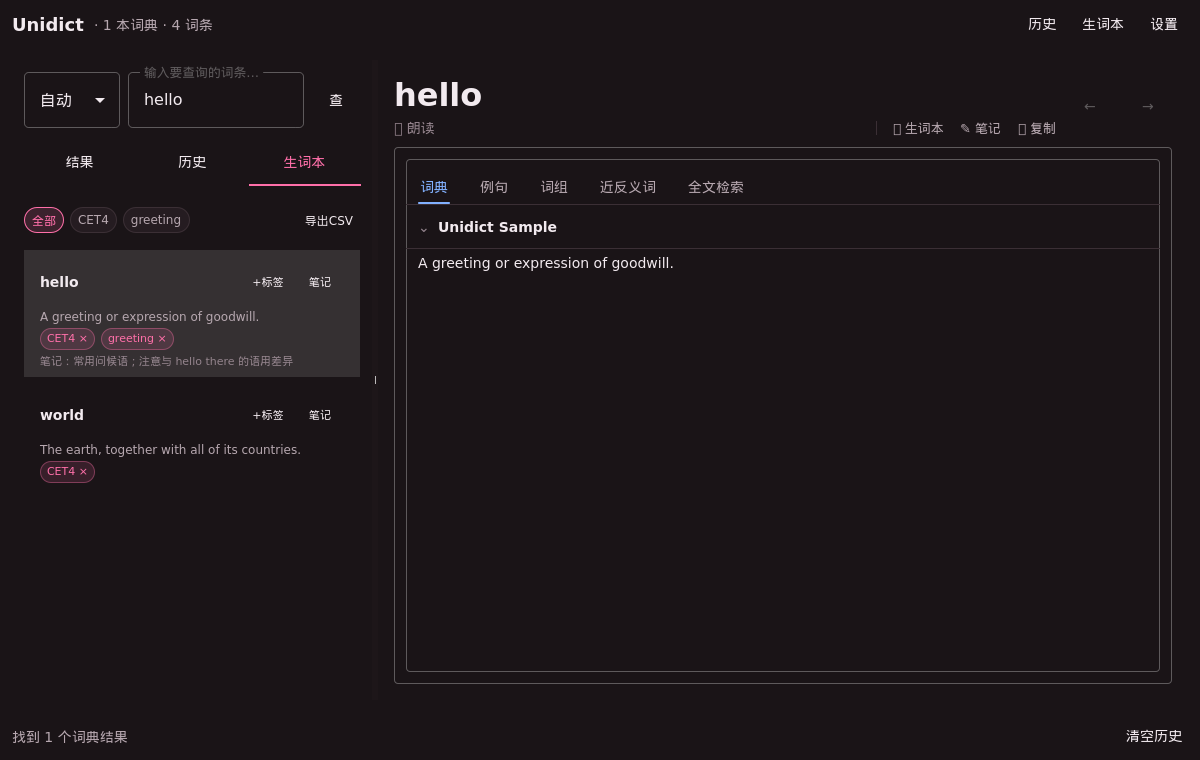
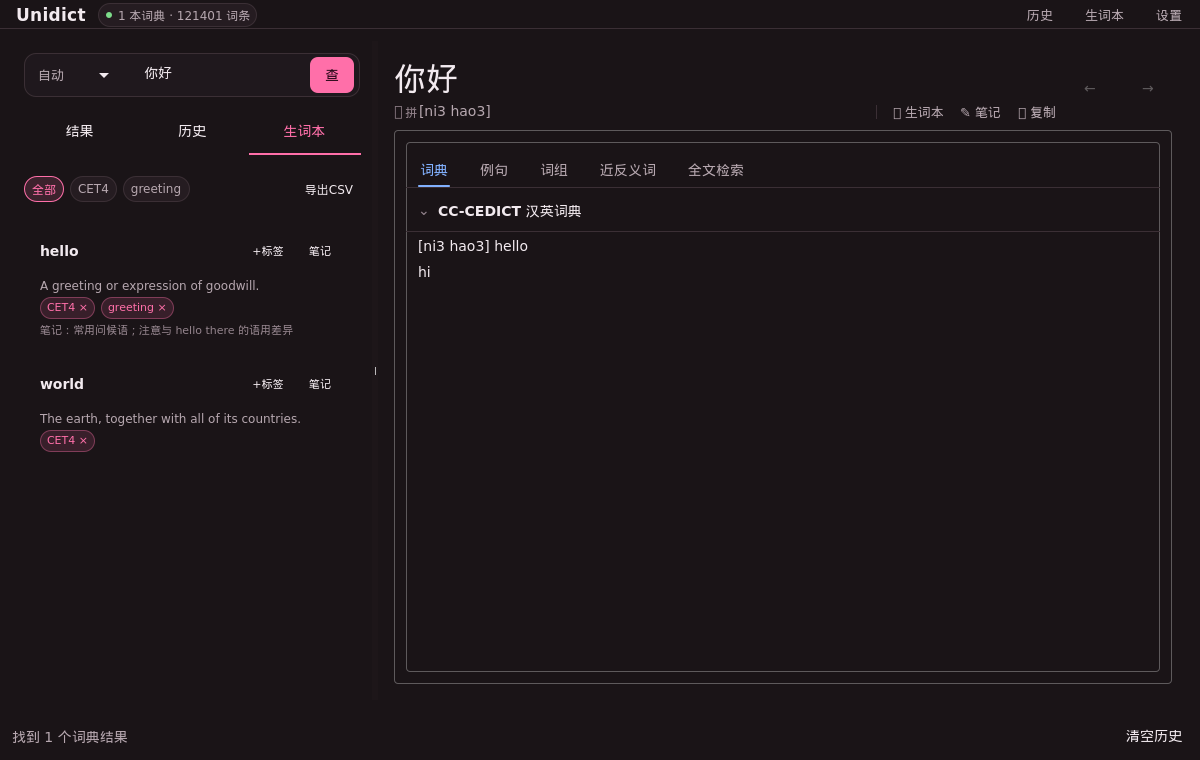
feat: UI 重设计 D2——surfaceSunken 凹陷面 token + 查询命令条 + header chip 化，原型基线切真词典
- token：theme_tokens.h 加 surfaceSunken（light #f7f1f5 / dark #1f181d，
  凹陷面比 card 低一档），theme.h Q_PROPERTY 透出；contrast_test hexFields
  收编 + AA 新增 text/secondary/accent × sunken × 双主题 6 行（34 用例全过）。
  tertiary/sunken 实测 4.3:1 掉门槛——头注释记档「凹陷面文字只用
  text/secondary，placeholder 归 secondary」
- SidebarPanel 查询命令条：搜索区重写为 surfaceSunken 凹陷容器
  （radiusL，聚焦时 accent 描边 2px + 120ms ColorAnimation），模式
  ComboBox/输入位/查按钮归拢一条；Material 浮动 placeholder 与输入文本
  重叠改为 placeholderText 置空 + 自绘空态 Text（通配符/正则占位随模式换）
- MainDesktop header：Material.elevation 0 + hairline 底边，「N 本词典 ·
  M 词条」状态 chip（success 圆点），历史/生词本/设置收进 HeaderGhostButton
  组件（hoverOverlay 悬停态），既有 objectName 逐个保留（点审计不破）
- 原型基线切真词典：ui_sandbox ENV 换 dictionaries/ccedict-zh-en.json、
  fixture 词 hello→你好——四屏截图即开箱效果（121401 词条），弃
  examples/dict.json 4 词条玩具感；docs/ui 八屏按实现即原型口径换新
- todo.md：立 P-11 产品体验三线（查词升级/UI 重设计/字典随包）批次台账，
  P-7 批四暂缓记档

diff --git a/qmlui/components/SidebarPanel.qml b/qmlui/components/SidebarPanel.qml
@@ -46,47 +46,113 @@ Pane {
         anchors.fill: parent
         spacing: 10
 
-        RowLayout {
+        // 查询命令条：凹陷面容器（surfaceSunken + 聚焦 accent 环）内嵌
+        // 模式切换 / 输入位 / 查询按钮——主入口一件事，视觉上归拢为一个整体
+        Rectangle {
+            id: searchCommandBar
+            objectName: "searchCommandBar"
             Layout.fillWidth: true
-            spacing: 8
+            Layout.preferredHeight: 44
+            radius: Theme.radiusL
+            color: Theme.surfaceSunken
+            border.width: searchField.activeFocus ? 2 : 1
+            border.color: searchField.activeFocus ? Theme.accent : Theme.divider
+            Behavior on border.color { ColorAnimation { duration: 120 } }
 
-            ComboBox {
-                id: suggestModeCombo
-                objectName: "suggestModeCombo"
-                model: ["自动", "前缀", "模糊", "通配符", "正则"]
-                currentIndex: root.suggestMode
-                Layout.preferredWidth: 96
-                onActivated: root.suggestModeSelected(currentIndex)
-            }
+            RowLayout {
+                anchors.fill: parent
+                anchors.leftMargin: 8
+                anchors.rightMargin: 6
+                anchors.topMargin: 4
+                anchors.bottomMargin: 4
+                spacing: 4
 
-            TextField {
-                id: searchField
-                objectName: "searchField"
-                Layout.fillWidth: true
-                text: root.queryText
-                placeholderText: root.suggestMode === 3 ? "输入通配符，例如 te*t?…" :
-                    (root.suggestMode === 4 ? "输入正则，例如 ^test.* …" : "输入要查询的词条…")
-                selectByMouse: true
-
-                onTextChanged: root.queryTextEdited(text)
-
-                Keys.onPressed: function(event) {
-                    if (event.key === Qt.Key_Return || event.key === Qt.Key_Enter) {
-                        root.querySubmitted(searchField.text)
-                        event.accepted = true
-                    } else if (event.key === Qt.Key_Escape) {
-                        searchField.clear()
-                        root.queryCleared()
-                        event.accepted = true
+                ComboBox {
+                    id: suggestModeCombo
+                    objectName: "suggestModeCombo"
+                    model: ["自动", "前缀", "模糊", "通配符", "正则"]
+                    currentIndex: root.suggestMode
+                    Layout.preferredWidth: 92
+                    Layout.fillHeight: true
+                    onActivated: root.suggestModeSelected(currentIndex)
+                    background: Rectangle {
+                        radius: Theme.radiusM
+                        color: suggestModeCombo.hovered ? Theme.hoverOverlay : "transparent"
+                    }
+                    contentItem: Text {
+                        text: suggestModeCombo.displayText
+                        font.pixelSize: 13
+                        color: Theme.textSecondary
+                        verticalAlignment: Text.AlignVCenter
+                        leftPadding: 6
                     }
                 }
-            }
 
-            ToolButton {
-                objectName: "searchGoButton"
-                text: "查"
-                enabled: searchField.text.trim().length > 0
-                onClicked: root.querySubmitted(searchField.text)
+                TextField {
+                    id: searchField
+                    objectName: "searchField"
+                    Layout.fillWidth: true
+                    Layout.fillHeight: true
+                    text: root.queryText
+                    // 占位自绘（Material 样式的 placeholder 会浮动到顶部与
+                    // 输入文本重叠；placeholderText 置空 + 空态 Text 覆盖）
+                    placeholderText: ""
+                    color: Theme.text
+                    selectByMouse: true
+                    verticalAlignment: TextInput.AlignVCenter
+                    font.pixelSize: 14
+                    background: Rectangle { color: "transparent" }
+
+                    Text {
+                        anchors.left: parent.left
+                        anchors.leftMargin: 6
+                        anchors.verticalCenter: parent.verticalCenter
+                        text: root.suggestMode === 3 ? "输入通配符，例如 te*t?…" :
+                            (root.suggestMode === 4 ? "输入正则，例如 ^test.* …" : "输入要查询的词条…")
+                        color: Theme.textSecondary
+                        font.pixelSize: 14
+                        visible: searchField.text.length === 0
+                    }
+
+                    onTextChanged: root.queryTextEdited(text)
+
+                    Keys.onPressed: function(event) {
+                        if (event.key === Qt.Key_Return || event.key === Qt.Key_Enter) {
+                            root.querySubmitted(searchField.text)
+                            event.accepted = true
+                        } else if (event.key === Qt.Key_Escape) {
+                            searchField.clear()
+                            root.queryCleared()
+                            event.accepted = true
+                        }
+                    }
+                }
+
+                ToolButton {
+                    id: searchGoButton
+                    objectName: "searchGoButton"
+                    text: "查"
+                    enabled: searchField.text.trim().length > 0
+                    Layout.fillHeight: true
+                    Layout.preferredWidth: 44
+                    font.pixelSize: 14
+                    onClicked: root.querySubmitted(searchField.text)
+                    background: Rectangle {
+                        radius: Theme.radiusM
+                        color: !searchGoButton.enabled ? "transparent"
+                            : searchGoButton.pressed ? Theme.accentPressed
+                            : searchGoButton.hovered ? Theme.accentHover
+                            : Theme.accent
+                        Behavior on color { ColorAnimation { duration: 120 } }
+                    }
+                    contentItem: Text {
+                        text: searchGoButton.text
+                        font: searchGoButton.font
+                        color: searchGoButton.enabled ? Theme.accentText : Theme.textDisabled
+                        horizontalAlignment: Text.AlignHCenter
+                        verticalAlignment: Text.AlignVCenter
+                    }
+                }
             }
         }
 

diff --git a/qmlui/MainDesktop.qml b/qmlui/MainDesktop.qml
@@ -389,43 +389,86 @@ ApplicationWindow {
     }
 
     header: ToolBar {
-        Material.elevation: 1
+        Material.elevation: 0
+        background: Rectangle {
+            color: Theme.window
+            // hairline 分隔替代 Material 投影：扁平层次，靠表面色阶区分
+            Rectangle { anchors.bottom: parent.bottom; width: parent.width; height: 1; color: Theme.divider }
+        }
         RowLayout {
             anchors.fill: parent
-            anchors.leftMargin: 12
-            anchors.rightMargin: 12
-            spacing: 10
+            anchors.leftMargin: 16
+            anchors.rightMargin: 8
+            spacing: 12
 
             Label {
                 text: "Unidict"
-                font.pixelSize: 18
+                font.pixelSize: 17
                 font.weight: Font.DemiBold
+                font.letterSpacing: 0.3
                 color: Theme.text
             }
 
-            Label {
-                text: {
-                    var _stamp = lookup.dictionariesStamp
-                    return lookup.loadedDictionaries().length > 0
-                        ? ("· " + lookup.loadedDictionaries().length + " 本词典 · " + lookup.indexedWordCount() + " 词条")
-                        : "· 未加载词典"
+            // 词典状态 chip：胶囊底 + accent 点，加载态一眼可辨
+            Rectangle {
+                radius: height / 2
+                implicitHeight: 24
+                implicitWidth: statusLabel.implicitWidth + 26
+                color: Theme.card
+                border.width: 1
+                border.color: Theme.divider
+                Row {
+                    anchors.centerIn: parent
+                    spacing: 6
+                    Rectangle {
+                        width: 6; height: 6; radius: 3
+                        anchors.verticalCenter: parent.verticalCenter
+                        color: lookup.loadedDictionaries().length > 0 ? Theme.success : Theme.warning
+                    }
+                    Label {
+                        id: statusLabel
+                        anchors.verticalCenter: parent.verticalCenter
+                        text: {
+                            var _stamp = lookup.dictionariesStamp
+                            return lookup.loadedDictionaries().length > 0
+                                ? (lookup.loadedDictionaries().length + " 本词典 · " + lookup.indexedWordCount() + " 词条")
+                                : "未加载词典"
+                        }
+                        font.pixelSize: 12
+                        color: Theme.textSecondary
+                    }
                 }
-                color: Theme.textSecondary
             }
 
             Item { Layout.fillWidth: true }
 
-            ToolButton {
+            component HeaderGhostButton : ToolButton {
+                leftPadding: 10
+                rightPadding: 10
+                background: Rectangle {
+                    radius: Theme.radiusM
+                    color: parent.hovered ? Theme.hoverOverlay : "transparent"
+                    Behavior on color { ColorAnimation { duration: 120 } }
+                }
+                contentItem: Text {
+                    text: parent.text
+                    font.pixelSize: 13
+                    color: Theme.textSecondary
+                    horizontalAlignment: Text.AlignHCenter
+                    verticalAlignment: Text.AlignVCenter
+                }
+            }
+            HeaderGhostButton {
                 objectName: "headerHistoryButton"
                 text: "历史"
                 onClicked: leftPane.currentTabIndex = 1
             }
-            ToolButton {
+            HeaderGhostButton {
                 objectName: "headerVocabButton"
                 text: "生词本"
                 onClicked: leftPane.currentTabIndex = 2
             }
-            ToolButton {
+            HeaderGhostButton {
                 objectName: "headerSettingsButton"
                 text: "设置"
                 onClicked: toolsDrawer.open()

diff --git a/qmlui/theme_tokens.h b/qmlui/theme_tokens.h
@@ -8,7 +8,11 @@
 //         accent/window 6.18:1 · accentText/accent 6.58:1 · danger/card 5.66:1
 //   dark  text/window 15.39:1 · secondary/card 7.21:1 · tertiary/card 4.63:1
 //         accent/window 7.00:1 · accentText/accent 6.98:1 · danger/card 7.24:1
-// （textDisabled 按 WCAG 豁免，不参与 AA 判定。）
+// 凹陷面（surfaceSunken，搜索输入条等内嵌输入底）配对：
+//   light text/sunken 15.16:1 · secondary/sunken 5.41:1 · accent/sunken 5.91:1
+//   dark  text/sunken 14.74:1 · secondary/sunken 7.57:1 · accent/sunken 6.71:1
+// （tertiary 在 sunken 上为 4.3:1 掉出门槛——凹陷面文字只用 text/secondary
+// 两档，placeholder 归 secondary；textDisabled 按 WCAG 豁免不判定。）
 //
 // 取值唯一来源：QML（Theme 上下文对象）与任何 HTML 插值都从这里出，
 // 禁止在 QML/页面代码里散落硬编码颜色。
@@ -28,6 +32,7 @@ inline constexpr int kRadiusL = 12;
 struct ThemeTokens {
     QString window;        // 窗体底
     QString card;          // 卡片/表面
+    QString surfaceSunken; // 凹陷面（搜索输入条/内嵌输入底），比 card 低一档
     QString text;          // 主文字
     QString textSecondary; // 次要文字
     QString textTertiary;  // 三级文字（占位/说明）
@@ -52,6 +57,7 @@ inline ThemeTokens tokensFor(bool dark) {
     if (dark) {
         t.window        = "#1a1417";
         t.card          = "#251c21";
+        t.surfaceSunken = "#1f181d";
         t.text          = "#f2eaef";
         t.textSecondary = "#b6a7af";
         t.textTertiary  = "#93838c";
@@ -70,6 +76,7 @@ inline ThemeTokens tokensFor(bool dark) {
     } else {
         t.window        = "#faf7f9";
         t.card          = "#ffffff";
+        t.surfaceSunken = "#f7f1f5";
         t.text          = "#241a20";
         t.textSecondary = "#6d5f67";
         t.textTertiary  = "#7e6e76";

diff --git a/tests/theme_tokens_contrast_test.cpp b/tests/theme_tokens_contrast_test.cpp
@@ -55,10 +55,10 @@ void ThemeTokensContrastTest::hexFormat() {
     for (bool dark : {false, true}) {
         const ThemeTokens t = tokensFor(dark);
         const auto hexFields = {
-            t.window, t.card, t.text, t.textSecondary, t.textTertiary,
-            t.textDisabled, t.accent, t.accentHover, t.accentPressed,
-            t.accentText, t.divider, t.hoverOverlay, t.danger, t.success,
-            t.warning, t.info, t.link,
+            t.window, t.card, t.surfaceSunken, t.text, t.textSecondary,
+            t.textTertiary, t.textDisabled, t.accent, t.accentHover,
+            t.accentPressed, t.accentText, t.divider, t.hoverOverlay,
+            t.danger, t.success, t.warning, t.info, t.link,
         };
         for (const QString& v : hexFields) {
             QVERIFY2(hexRe.match(v).hasMatch(),
@@ -80,6 +80,15 @@ void ThemeTokensContrastTest::aaContrast_data() {
             << t.textSecondary << t.card;
         QTest::newRow(qPrintable(tag + "-tertiary-card"))
             << t.textTertiary << t.card;
+        // 凹陷面（surfaceSunken，P-7 UI 重设计批新增）：内嵌输入条底。
+        // tertiary 在 sunken 上掉出 4.5（4.3:1）——凹陷面文字只用 text/
+        // secondary 两档，placeholder 归 secondary
+        QTest::newRow(qPrintable(tag + "-text-sunken"))
+            << t.text << t.surfaceSunken;
+        QTest::newRow(qPrintable(tag + "-secondary-sunken"))
+            << t.textSecondary << t.surfaceSunken;
+        QTest::newRow(qPrintable(tag + "-accent-sunken"))
+            << t.accent << t.surfaceSunken;
         QTest::newRow(qPrintable(tag + "-accent-window")) << t.accent << t.window;
         QTest::newRow(qPrintable(tag + "-accent-card")) << t.accent << t.card;
         QTest::newRow(qPrintable(tag + "-accentText-accent"))

diff --git a/qmlui/theme.h b/qmlui/theme.h
@@ -24,6 +24,7 @@ class Theme : public QObject {
     Q_PROPERTY(bool dark READ dark WRITE setDark NOTIFY darkChanged)
     Q_PROPERTY(QString window READ window NOTIFY darkChanged)
     Q_PROPERTY(QString card READ card NOTIFY darkChanged)
+    Q_PROPERTY(QString surfaceSunken READ surfaceSunken NOTIFY darkChanged)
     Q_PROPERTY(QString text READ text NOTIFY darkChanged)
     Q_PROPERTY(QString textSecondary READ textSecondary NOTIFY darkChanged)
     Q_PROPERTY(QString textTertiary READ textTertiary NOTIFY darkChanged)
@@ -51,6 +52,7 @@ public:
 
     QString window() const { return m_tokens.window; }
     QString card() const { return m_tokens.card; }
+    QString surfaceSunken() const { return m_tokens.surfaceSunken; }
     QString text() const { return m_tokens.text; }
     QString textSecondary() const { return m_tokens.textSecondary; }
     QString textTertiary() const { return m_tokens.textTertiary; }

diff --git a/qmlui/dev/ui_sandbox.cpp b/qmlui/dev/ui_sandbox.cpp
@@ -173,8 +173,9 @@ int main(int argc, char* argv[]) {
             settle(win);
             ok &= grab(win, outDir, "home_" + tag + ".png", size);
 
-            // 结果页
-            QVariant r1("hello"), r2(true);
+            // 结果页（真词典 fixture 词：CC-CEDICT 汉英词头，释义带拼音/词性，
+            // 原型图即开箱效果）
+            QVariant r1("你好"), r2(true);
             QMetaObject::invokeMethod(win, "openWord", Q_ARG(QVariant, r1),
                                       Q_ARG(QVariant, r2));
             settle(win);

diff --git a/todo.md b/todo.md
@@ -52,9 +52,17 @@
   - [x] 批次一：游戏化死码清理——消费面扫描判定（qmlui/learning_manager）：Main.qml（Android/iOS 壳）学习统计 Tab 只消费 5 个读方法（getDailyStats/getProgressStats/getDueReviews/getWeakWords/getMotivationalMessage）+传递依赖（getWordStats/calculateReviewPriority/getReviewReason/loadStats/fromJson/m_dailyTarget）；其余全仓零消费连码退役：18 个 Q_INVOKABLE（recordLookup 唯一写入口也零消费——读面恒空是现状行为，删除不改变任何行为）、5 signals、checkReviews+每小时定时器、成就系统（checkAchievements+m_unlockedAchievements）、艾宾浩斯间隔表（calculateNextInterval/calculateDifficulty）、saveStats（调用者全在死链）、LearningStats::toJson、ReviewItem struct（零引用）；保留读面与持久化读链（旧 learning_stats.json 照常加载展示，不破存量数据）。判不准的留：MainModern.qml 死壳归 TD-118/119 出口选型、ui_sandbox/click_audit 的 context 注册（Main.qml 探活需要）、Main.qml 学习 Tab（UI 面不在本批边界）。tests/learning_manager_test.cpp 改写（1207→约 430 行，26 slot→13）：读面改 fixture 手摆 learning_stats.json 驱动（读语义不再依赖写链；键形态=历史写入器落盘的归一化小写，fromJson 原样加载、查询侧归一化照测），写链/成就/导入导出 slot 随死链退役。闸门：build 151 / build-std 131 / coverage lines 100%
   - [x] 批次二：双存储合一——history 单源落 DataStoreStd（unidict.json 实时落盘），legacy manager 内存双轨退役：①std 层升级结构化条目 SearchHistoryEntryStd{query,success,dictionary_name,pinned}（add_search_history_entry/get_search_history_entries/set_search_history_pinned/remove_search_history/set_search_history 整表重建；置顶块尾插入与上限 100 全按 manager 口径统一——存储序=新→旧，旧 DataStore 尾插序退役，两端历史列表同序）；落盘格式升级为对象数组（紧凑字段：缺省不写），读侧双形态兼容（旧字符串数组→success=true/无词典名/不置顶），畸形布尔值兜 obj_bool 缺省臂。②DataStoreQt 桥+DataStore 壳透传（addSearchHistoryEntry/getSearchHistoryEntries/setSearchHistoryPinned/removeSearchHistoryItem/restoreSearchHistory）。③manager 转轨：m_history 成员退役，recordSearch/getSearchHistory/removeSearchHistoryItem/setSearchHistoryPinned 只剩类型映射与 m_lastError 语义；clear() 清单源；saveFromJson 摘 history 段，loadFromJson 对旧 state 的 history 数组做一次性替换式迁移且 history 独立于 state 恢复（不再「恢复即重置」——gui 恢复 state 不再清掉 qmlui 历史）。④sync 面适配：apply 回写改 restoreSearchHistory（add 插头语义下逐条重建会反转序），快照数组序=存储序自洽，同步序断言零改动。gui 调用面零改动（转发语义等价）；qmlui 简单面零改动。闸门：build 151 / build-std 131 / coverage lines 100%（std history 面含结构化往返/置顶桶/上限裁剪/旧格式兼容/畸形布尔兜底全钉）
   - [x] 批次三：四技能数据模型——生词本条目级 LearningState 字段位（product-principles §11「预留防迁移，不是课程化」口径）：VocabItemStd 扩四字段 listen/speak/read/write（int 0-2：0=未练 1=不稳 2=稳；旧文件无字段=0 零迁移），写入口 set_vocabulary_skill（skill ∈ {listen,speak,read,write} 大小写不敏感；非法技能/等级返回假不动数据，不静默钳位），add_vocabulary_item 更新臂只换释义——技能状态保留（学习状态不因重加词条被清，测试钉）。落盘只写非零字段（0=缺省省略），读侧 obj_int 兜底归 0；DataStoreQt 桥 + DataStore 壳透传（setVocabularyItemSkill），getVocabularyMeta/ByTag 条目带四技能键。sync 面零改动（词表合并固定 word/definition/added_at，技能=本地学习状态与 tags/notes 同口径不入同步文件）；qmlui/gui UI 零改动（UI 接入归批四复习入口按需消费）。测试钉：std 面（四技能三态/大小写不敏感/非法参数矩阵/upsert 保留/非零写零省略往返/旧文件缺省升级）、branches 面（roundtrip 四技能非零往返+全零省略臂、listen:"x" 畸形值 obj_int 兜底）、Qt 门面（写入口转发+meta 四键）。闸门：build 151 / build-std 131 / coverage lines 100%（9548/9548，scripts/coverage.sh 官方口径）
+  - （批四·复习入口简单化暂缓：2026-10-08 用户指令三线（P-11）插入，收口后续批）
 - [ ] **P-8 Speech**（TTS 面完善）
 - [x] **P-9 AI Provider 抽象**（provider 可替换，core 不带 AI，失败无感）：`AiProvider` 接口（name/translate/grammarCheck，空串=失败让位）+ `CommandAiProvider`（外部命令桥，起不来/被杀/超时/无输出全返回空）+ `HeuristicAiProvider`（离线启发式兜底，永不空）收进 ai_service_qt 既有 TU——零 CMakeLists 变更（tests/CMakeLists 由 B4 WIP 占用期的绕行口径）；AiServiceQt 链化（setCommand/env 重建：有命令=command+heuristic，无=仅 heuristic）+ `providerNames()` 可观察面；core 零 AI 不变。失败无感：任一 provider 空产出静默让位下家、坏命令占位不报错、空白输出边缘收紧为失败让位（原行为空白产出直接返回空串）。行为契约全保：q7 既有三结局（stdout/stderr/信号杀）与启发式 mock 串断言原样过；新增四断言（env 形链/无配置链/清空命令摘除/坏命令占位）。闸门：build 154/155、build-std 129/130——唯一红 = B4 WIP 未提交 test_sync_device_std（他人在途，不入本提交面/不进 CI）
 - [ ] **P-10 Server**（仅当用户显式推进：account / catalog / distribution / sync；永不进查词核心路径）。范围修订：账号面已取消（server_plan §5.5 零账号），sync 面由 B 系列承载
+- [ ] **P-11 产品体验三线**（用户指令 2026-10-08：①查词别像 grep，参考成熟项目 ②UI 用 ui-ux-pro-max 重设计并以新原型图替换旧图 ③常见开源字典多下几个、随包自带 ≥6 个 + 装进安装包）：
+  - [x] 字典随包线（10806a3）：`scripts/fetch_sample_dicts.sh` 一键拉取 5 件（ECDICT 340 万词 / WikDict×2 / FreeDict×2；unzip 缺席回退 python zipfile、FreeDict .idx.gz 需 gunzip、.done 标记防重拉、`--print-env` 出 UNIDICT_DICTS 值）；README 快速上手改指真词典 `dictionaries/ccedict-zh-en.json`（实测「词典」出拼音+释义）并修 `-m prefix -p inter` 形态错（`-p` 仅 fulltext 消费）；CI daily-build 两平台现拉入包（Windows `stage/dictionaries/` 平铺进 Inno `recursesubdirs`、macOS bundle `Resources/dictionaries/`），qmlui/main.cpp bundledNames 子路径白名单小件自动挂载（<5MB 三件入包即查；ECDICT 200MB、eng-deu 大件入包不自动挂按需挂载——「查得快」承诺），安装器断言补 ATTRIBUTION.md/ecdict.ifo/wikdict.ifo + ECDICT lobster 冒烟；字典资产不入 git（.gitignore `dictionaries/downloaded/`，AGENTS.md 红线）
+  - [x] UI 重设计 D1（2496b7c）：MainModern 死树整删（19 文件 ~8.8K 行），TECH_DEBT / CURRENT_ARCHITECTURE / CURRENT_FEATURE_MATRIX / mobile_plan 四文档同步
+  - [x] UI 重设计 D2（本批）：`surfaceSunken` 凹陷面 token（light #f7f1f5 / dark #1f181d）三同源链落 theme_tokens.h + theme.h + tests/theme_tokens_contrast_test.cpp（34 用例 AA 全过；tertiary/sunken 4.3:1 掉门槛→「凹陷面文字只用 text/secondary、placeholder 归 secondary」口径记档头注释）；SidebarPanel 查询命令条（sunken 容器 + 聚焦 accent 环 2px/120ms ColorAnimation + 模式/输入位/查按钮归拢一体，placeholderText 置空 + 自绘空态 Text 修 Material 浮标与输入文本重叠）；MainDesktop header chip 化（Material.elevation 0 + hairline 底边、「N 本词典 · M 词条」状态 chip 圆点、HeaderGhostButton 组件 ×3 objectName 全保）；ui_sandbox 原型基线切真词典（UNIDICT_DICTS=ccedict + fixture 词「你好」——121401 词条开箱效果，弃 4 词条玩具感）；docs/ui 八屏换新（实现即原型，README 引用名不变）
+  - [x] CI 闪败修（本批）：tests/learning_manager_test.cpp 日统计 nextReview 由 `now-7200` 改钉「今日零点」——统计窗是 [today, tomorrow)，固定回退量在 UTC 00:23 定时 CI 跑时跨日掉出窗外 reviews 记 0（10806a3/2496b7c 两红唯一根因，三平台同挂同修；零点恒在窗内且 ≤ now 必到期）
+  - [ ] 查词能力线：主链三层降级补模糊层 / 词形还原（lemma 设施）/ Did-you-mean 升编辑距离 / CLI 输出形态升级（grep 形四模式裸词表 → 结构化）
+  - [ ] UI D3/D4：EntryResultsPane 结果面板视觉升级（卡头/分组/行动作行）；compare/ 演进记录定口径 + Android UnidictTheme.kt 同步 surfaceSunken（三方同源链联动）
 - [ ] **B 系列同步服务重构**（server_plan §7，2026-10-04 立项，B1→B7 顺序；红线全程有效：同步默认关闭、显式开启明示范围；中转只见密文）：
   - [x] **B1 中转面核心**：`server/sync_relay/`——PROTOCOL.md v1 契约（指令收发 op_id 幂等去重 / 服务端定序组内全序 seq / 位点增量拉取 since+limit+has_more / 快照存取与空洞拉取规则 / 限额表）；双参考实现：dev（Python stdlib 单进程，`--data` 原子落盘）+ Worker（Cloudflare D1，batch 事务 `MAX(seq)+1` 定序 + `UNIQUE(gid,op_id)` 幂等 + 首请求惰性建表）；契约符合性测试 dev 16 用例（注册 ctest `sync_relay_protocol`，build-std 123 / build 146）+ worker 14 用例（node:sqlite 做 D1 shim）；README（三形态表 / 部署 / 自建口径）。C++ 版 `unidict-relay` 归 B5
   - [x] **B2 客户端同步引擎**：`core/std/sync_engine_std.h/.cpp`——SyncTransportStd 窄传输接口（meta/推/拉/快照存取；HTTP/WebDAV/LAN 绑定归 B5）；指令生成（op_id=`<device_id>:<本地序>`，enqueue 本地立即生效+outbox，payload≤256KiB）；推 256 条/批+ack 幂等去重（离线重试续传；全批无 ack 防御收口不挂死）；拉按 PROTOCOL §2.8（位点落后快照覆盖位先取快照跳变→增量分页，limit 钳制 ≤1000）；确定性回放=全规范序（words/tags 字典序、history 按 (ts,word)——指令语义可交换幂等，回放次序无关收敛，序列化逐字节确定）；快照阈值压缩（applied_since_snapshot 计数清零）；save/load_state 断点续传（version 校验/截断文件按可读前缀加载）；gid 校验（§3）。测试 test_sync_engine_std 13 组（tests/sync_relay_memory_std.h 内存 relay+故障注入：双引擎收敛/分块拉/重启续传/快照空洞/压缩计数/回显幂等/畸形 payload/截断文件/转义往返），build-std 124 / build 149 / coverage lines 100%（core/ 7955 行）
